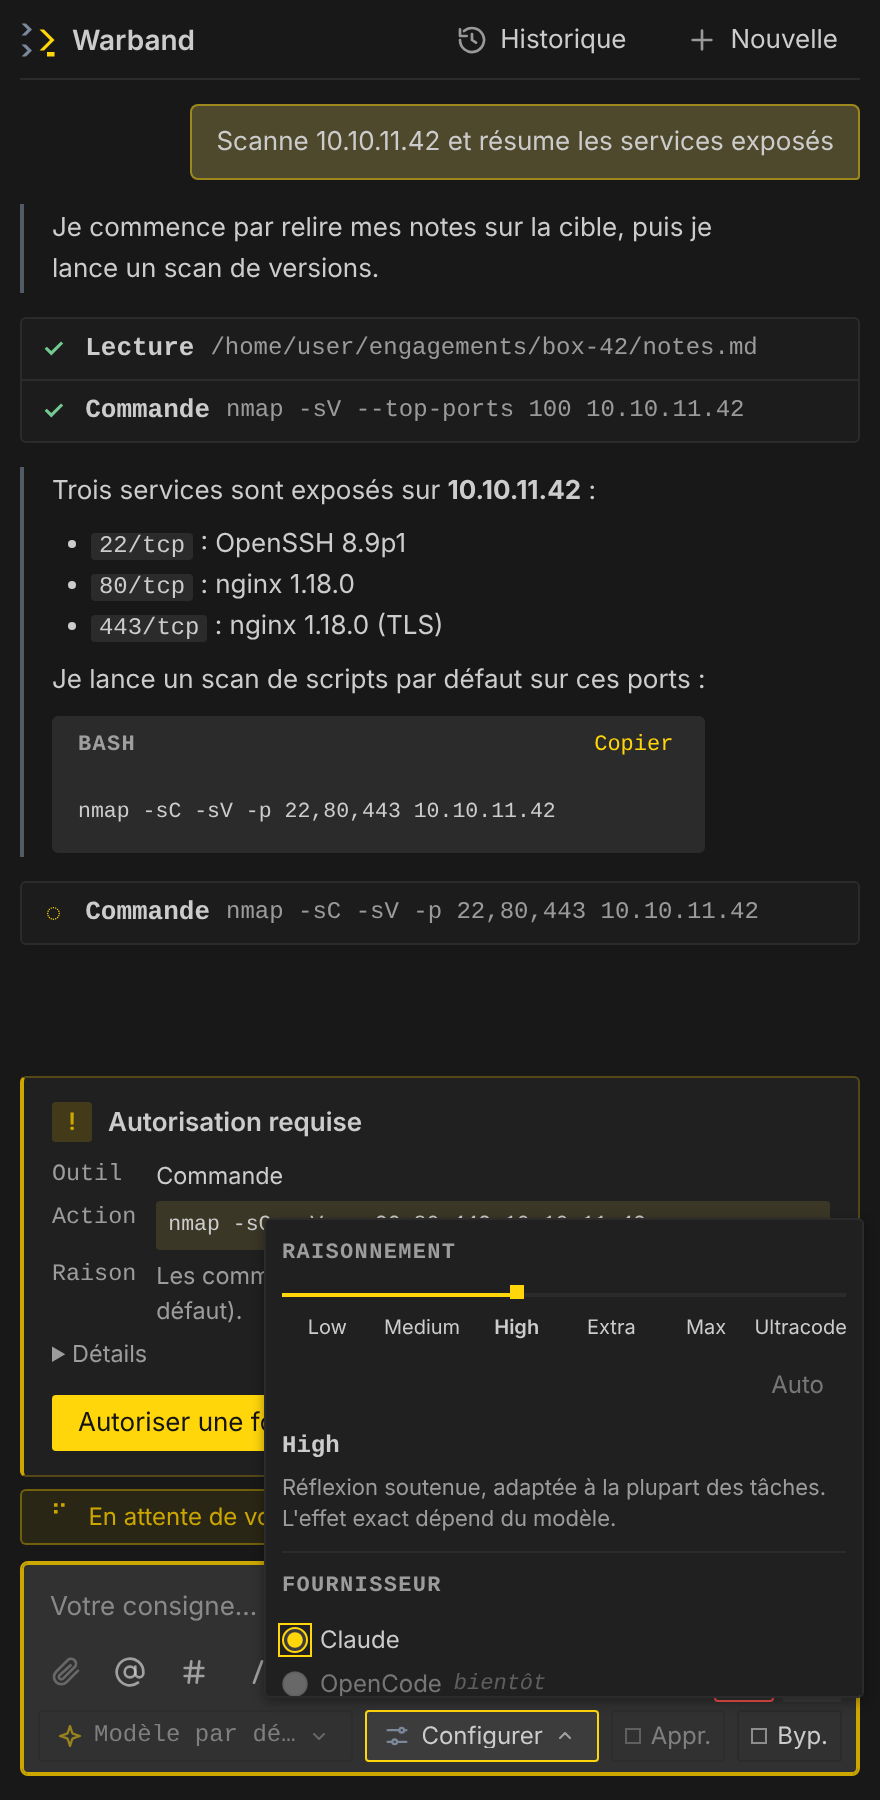
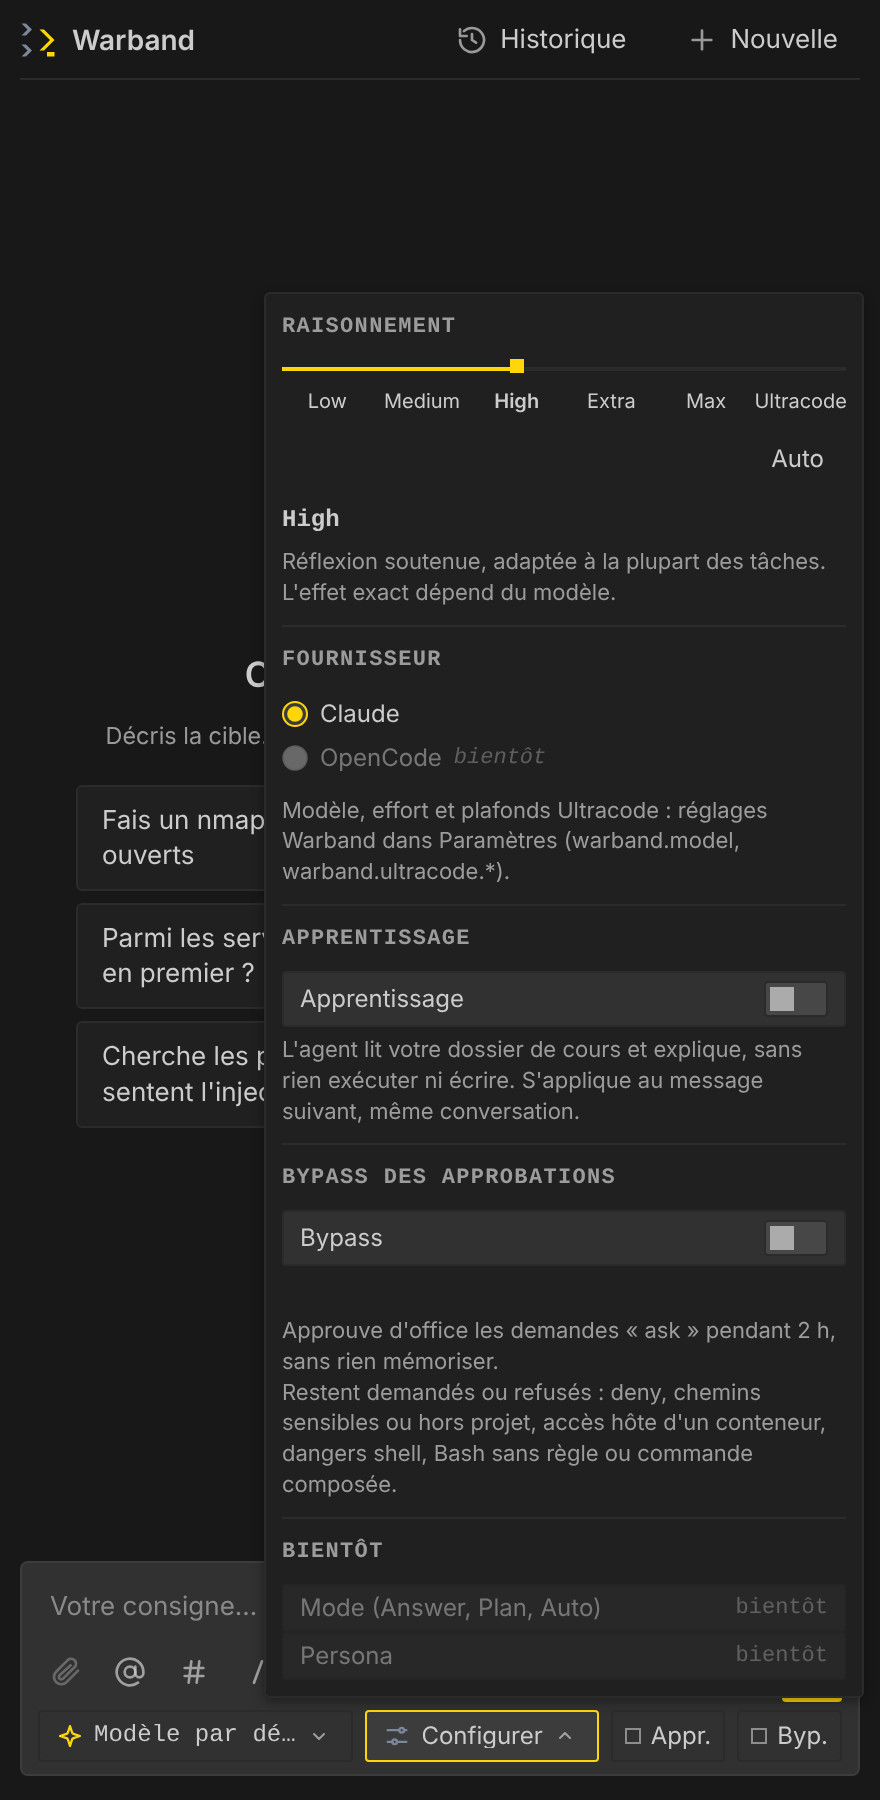
Refait les captures du popover Configurer sur l'accueil vide
Nouvel état vitrine-accueil-config : popover ouvert sans conversation, plafond
de hauteur levé dans la prévisualisation seulement (chat.css inchangé). Le mode
--vitrine produit configurer-sombre.png et configurer-clair.png.

Claude-Session: https://claude.ai/code/session_01LFiW8k3AsUUE1DbbBVDhXc

diff --git a/packages/vscode/test/preview.test.ts b/packages/vscode/test/preview.test.ts
@@ -70,6 +70,7 @@ const STATES = [
   "vitrine",
   "vitrine-config",
   "vitrine-accueil",
+  "vitrine-accueil-config",
 ] as const;
 type PreviewState = (typeof STATES)[number];
 /** Clic simulé après réception de la vue (ouvre le popover correspondant). */
@@ -79,6 +80,7 @@ const CLICK: Partial<Record<PreviewState, string>> = {
   history: "history-btn",
   mention: "mention-btn",
   "vitrine-config": "cfg-btn",
+  "vitrine-accueil-config": "cfg-btn",
 };
 
 /** Vitrine (README) : modèles d'exemple génériques, sans identifiant réel. */
@@ -147,7 +149,7 @@ function fillVitrine(s: ReturnType<typeof createChatState>) {
 
 function buildView(state: PreviewState) {
   const s = createChatState();
-  const accueil = state === "vitrine-accueil";
+  const accueil = state === "vitrine-accueil" || state === "vitrine-accueil-config";
   const vitrine = state === "vitrine" || state === "vitrine-config" || accueil;
   const busy = state === "running" || state === "approval" || (vitrine && !accueil);
   if (!vitrine) s.setSandbox("node:22-slim");
@@ -274,7 +276,13 @@ for(const n of document.body.querySelectorAll("*")){if(n.closest(".sr-only")||n.
  * l'hôte au démarrage (`ready` pour le chat, `refresh` pour le cockpit et les réglages) ; la réponse `messages` part alors.
  * La page est chargée dans une iframe de la largeur voulue ; elle poste au parent les violations CSP et le débordement.
  */
-const shim = (cls: string, trigger: string, messages: unknown[], click: string | undefined) => {
+const shim = (
+  cls: string,
+  trigger: string,
+  messages: unknown[],
+  click: string | undefined,
+  lift?: string,
+) => {
   const posts = messages
     .map((m) => `window.postMessage(${JSON.stringify(m).replace(/</g, "\\u003c")},"*");`)
     .join("");
@@ -282,7 +290,7 @@ const shim = (cls: string, trigger: string, messages: unknown[], click: string |
 const csp=[];document.addEventListener("securitypolicyviolation",(e)=>{csp.push(e.violatedDirective+" "+e.blockedURI);});
 document.body.classList.add("${cls}");
 window.acquireVsCodeApi=()=>({postMessage:(m)=>{if(m.type==="${trigger}")setTimeout(()=>{${posts}},0);}});
-window.addEventListener("load",()=>setTimeout(()=>{${click ? `document.getElementById("${click}").click();` : ""}
+window.addEventListener("load",()=>setTimeout(()=>{${click ? `document.getElementById("${click}").click();` : ""}${lift ? `setTimeout(()=>document.getElementById("${lift}").style.setProperty("max-height","none"),100);` : ""}
 setTimeout(()=>{${MEASURE}
 parent.postMessage({ready:true,csp:csp.join(";"),overflow:bad},"*");},300);},50));`;
 };
@@ -395,7 +403,7 @@ describe("pages de prévisualisation", () => {
           )
           .replace(
             '<script nonce="preview" src="../media/ui.js"></script>',
-            `<script nonce="preview">${shim(t.cls, "ready", [{ type: "view", view }, CHAT_CONTAINERS], CLICK[state])}</script>\n<script nonce="preview" src="../media/ui.js"></script>`,
+            `<script nonce="preview">${shim(t.cls, "ready", [{ type: "view", view }, CHAT_CONTAINERS], CLICK[state], state === "vitrine-accueil-config" ? "cfg-pop" : undefined)}</script>\n<script nonce="preview" src="../media/ui.js"></script>`,
           );
         expect(html).toContain("Content-Security-Policy");
         expect(html).toContain(`vscode-${theme === "hc" ? "high-contrast" : theme}`);
